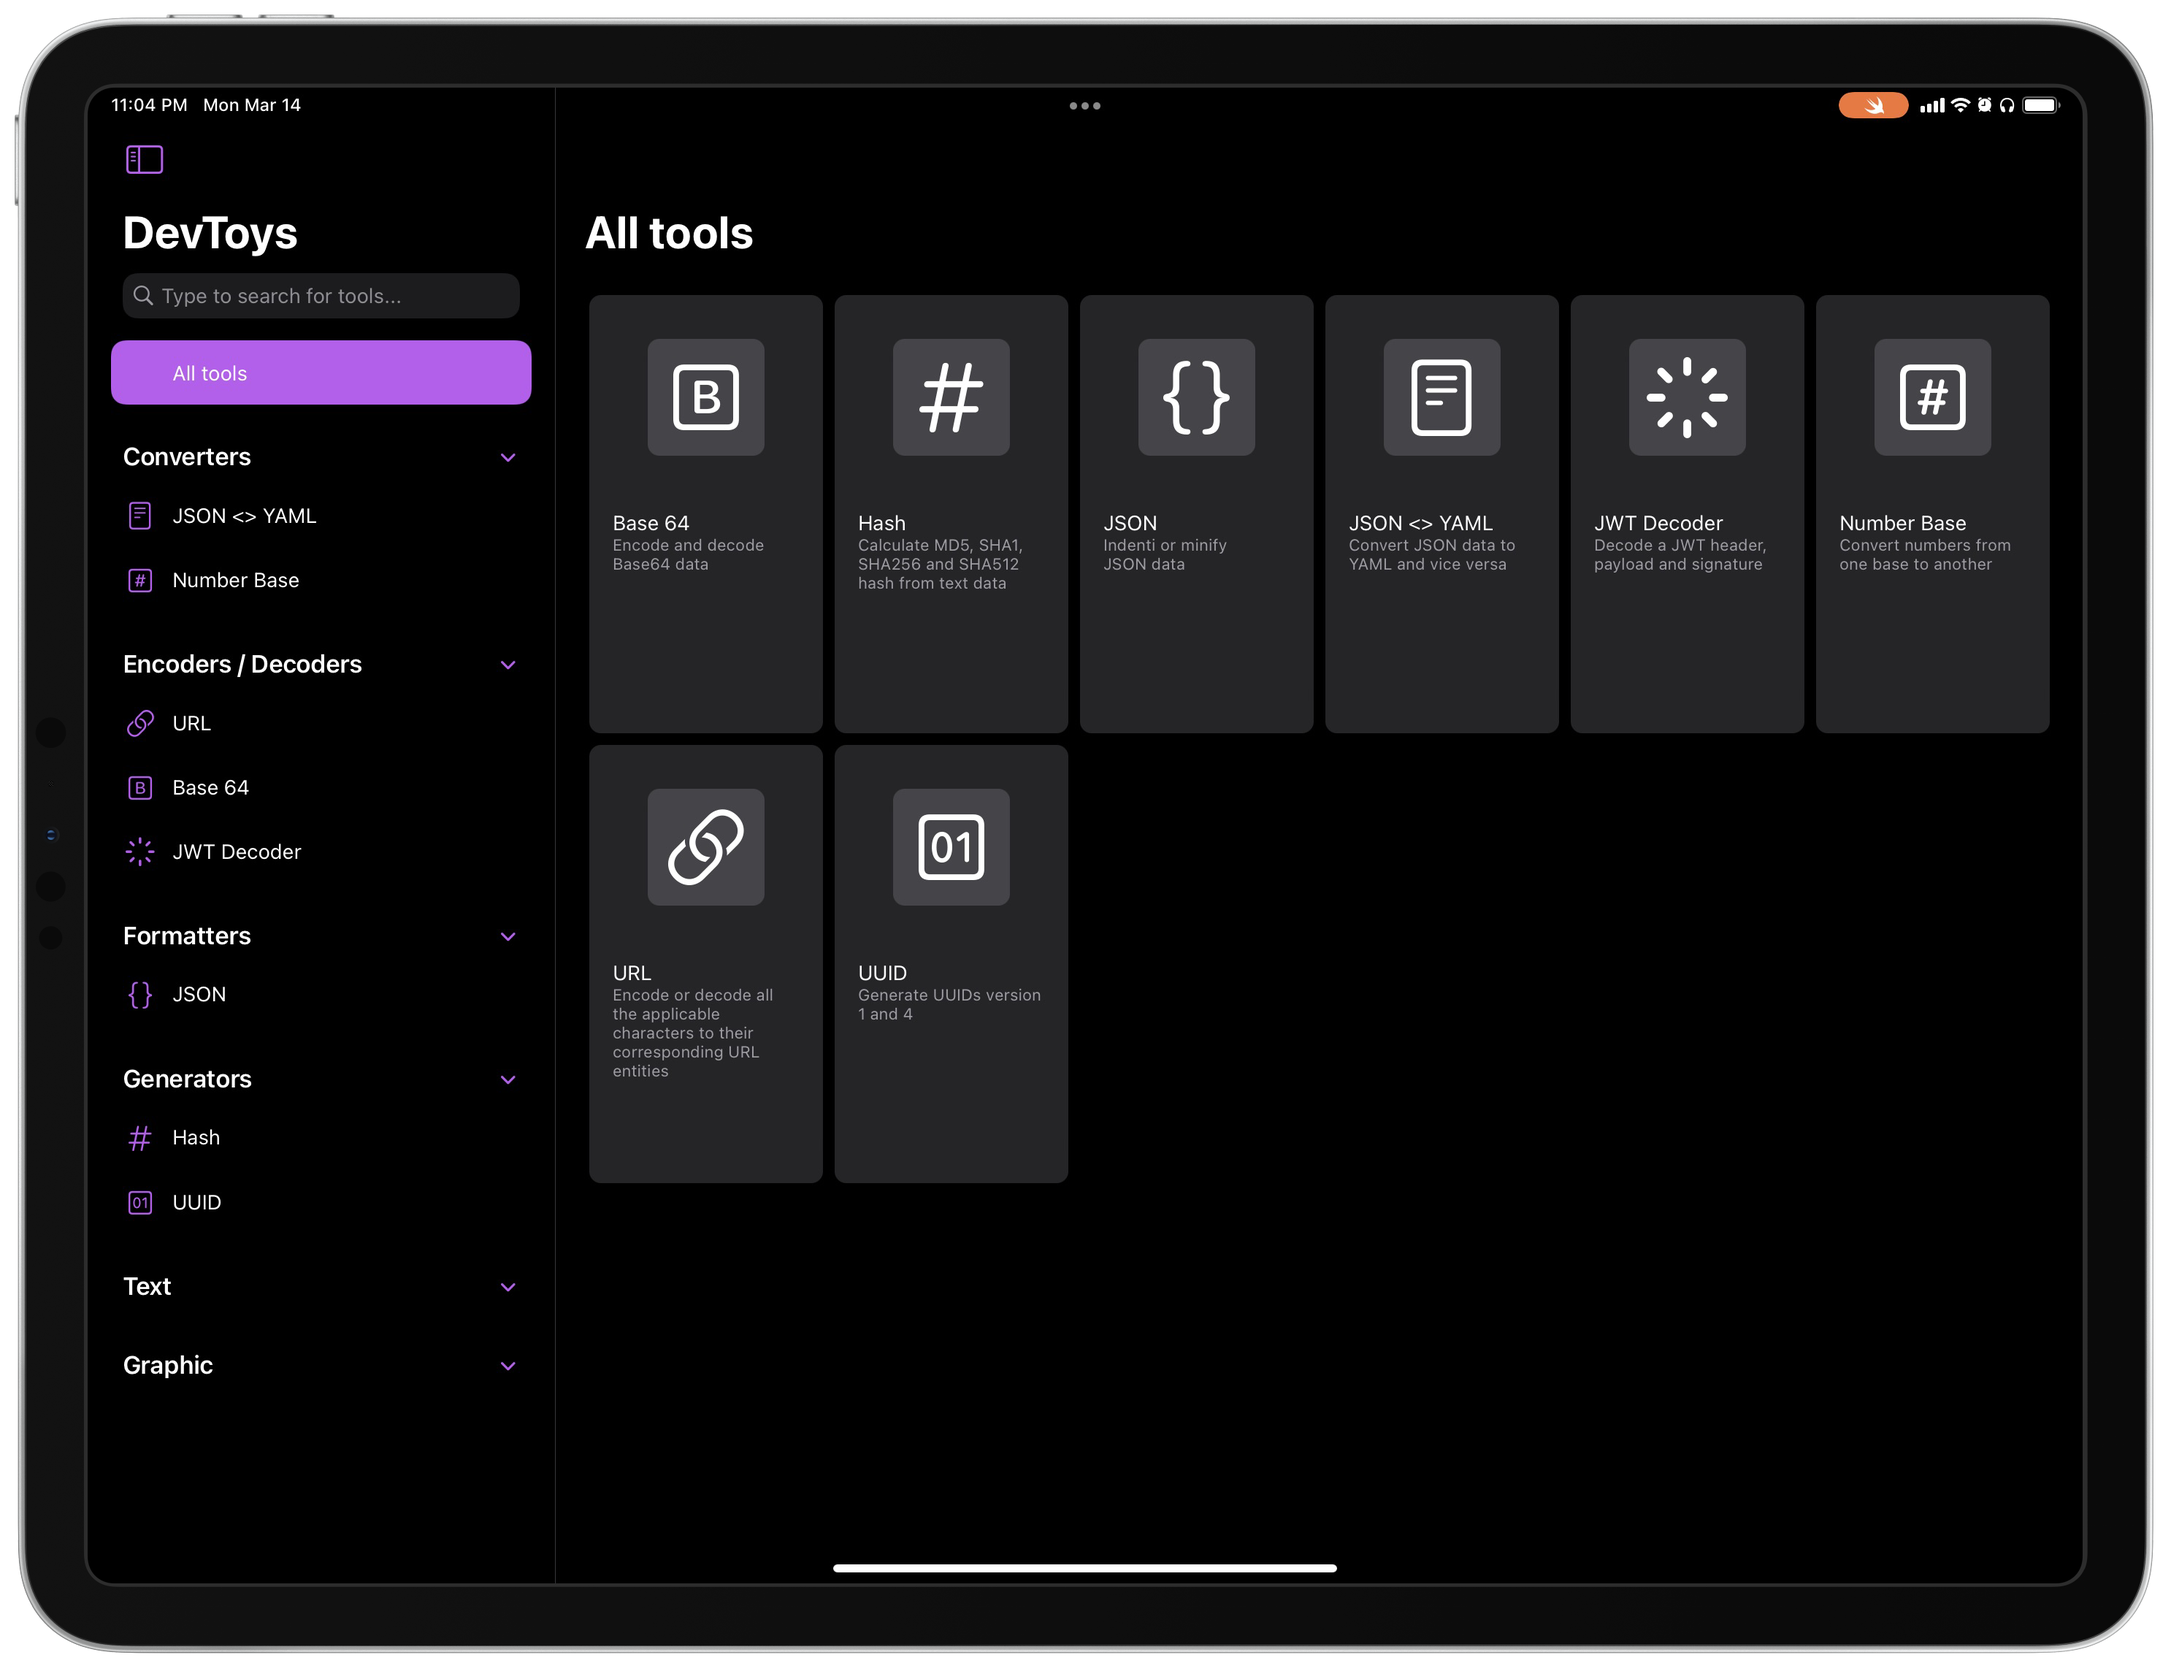
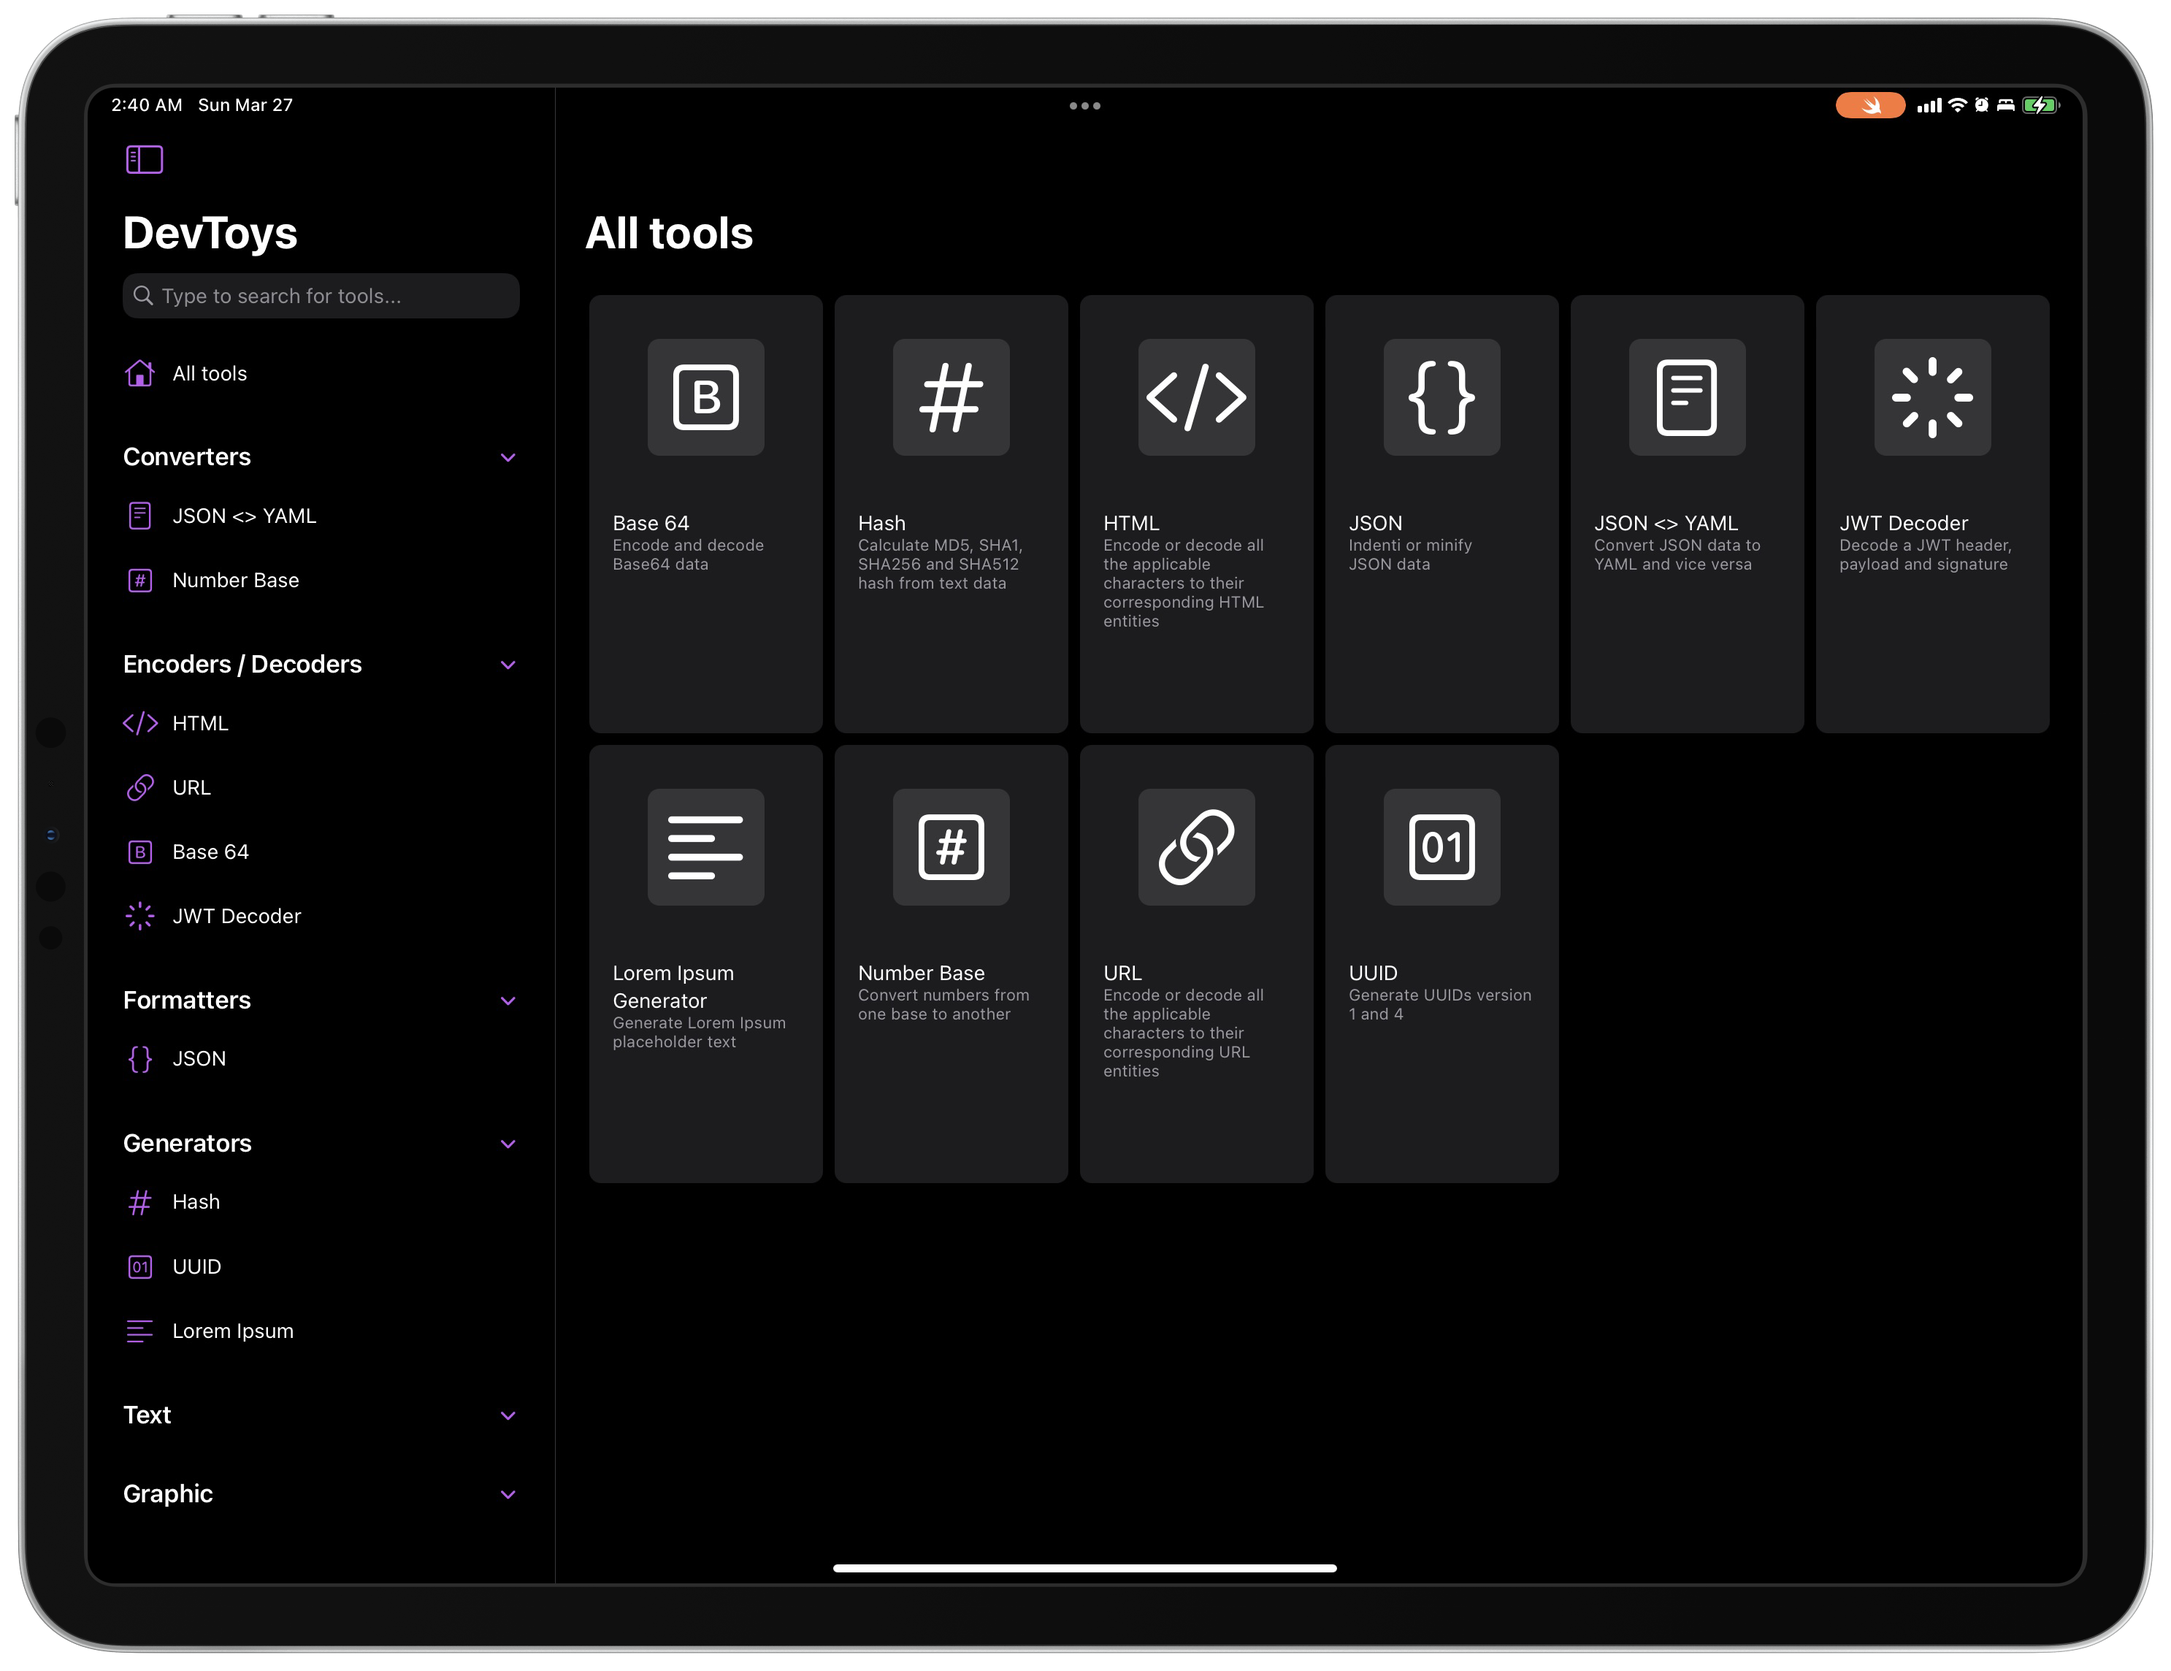
Update README.md

diff --git a/README.md b/README.md
@@ -29,7 +29,7 @@ This app is a SwiftUI reimplementation of [DevToys](https://devtoys.app), a Swis
   - [ ] UUID
     - [ ] UUID v1
     - [x] UUID v4
-  - [ ] Lorem Ipsum
+  - [x] Lorem Ipsum
   - [ ] Checksum
 - Text
   - [ ] Inspector & Case Converter
